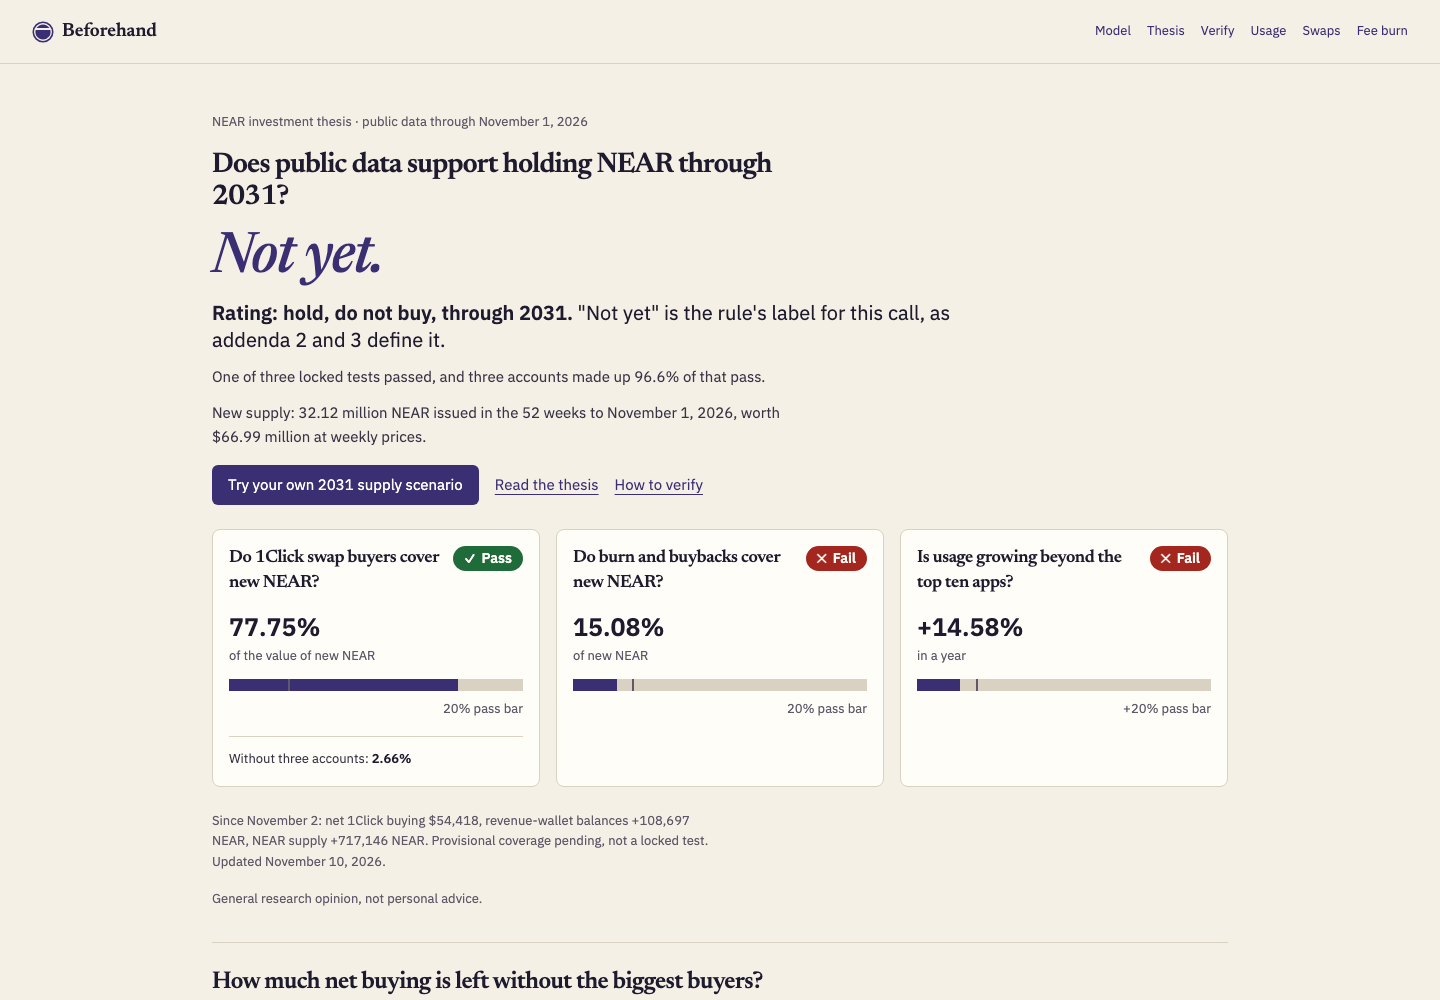
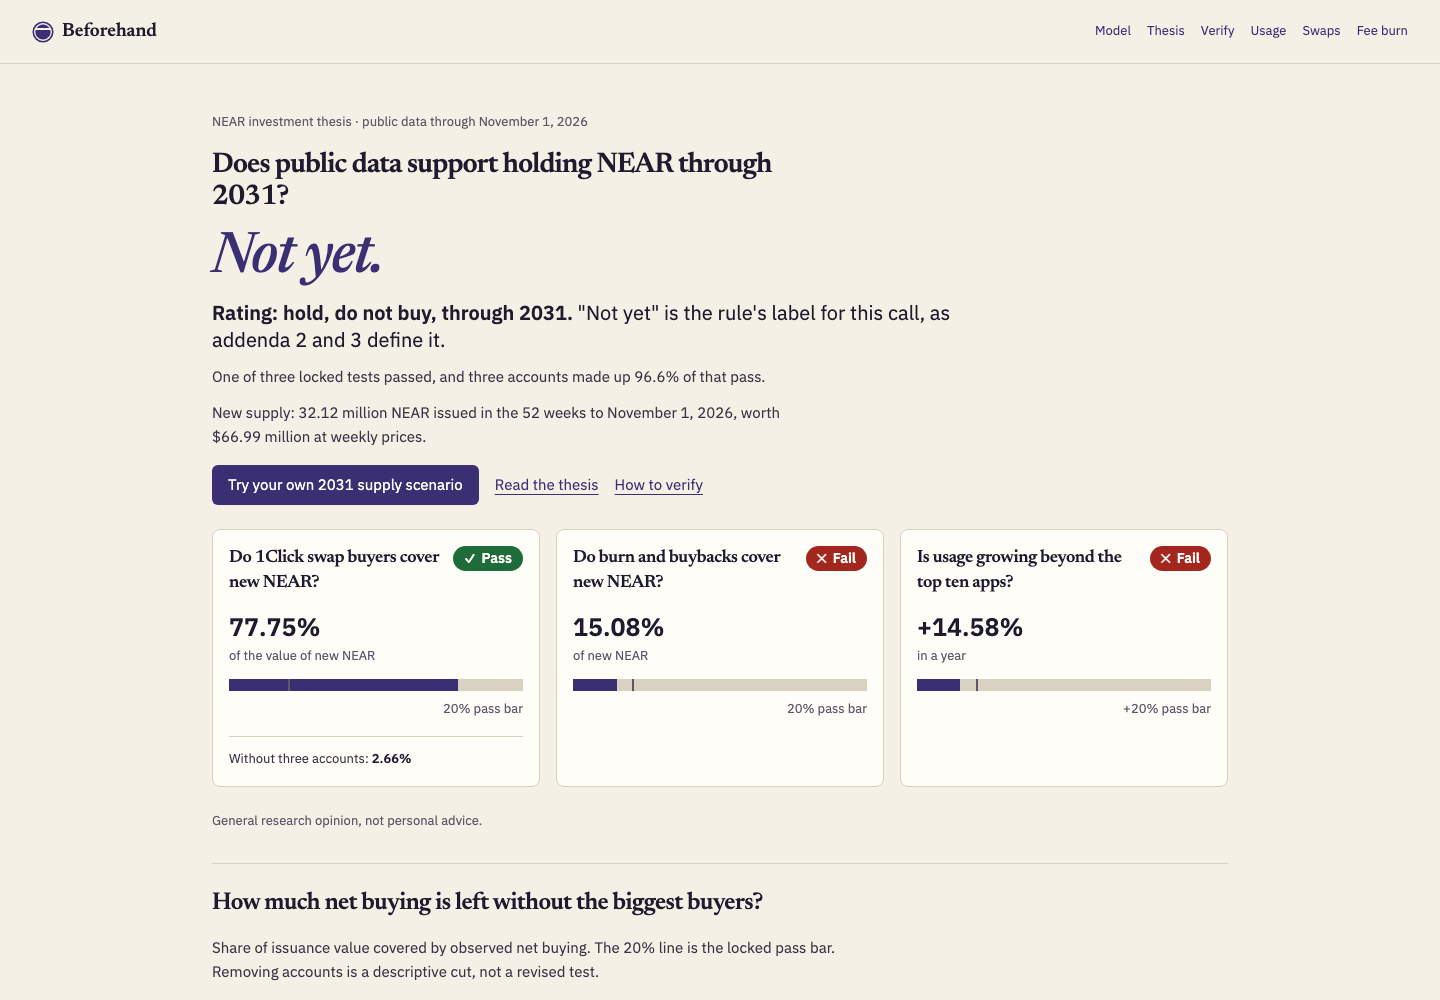
Keep result-table words whole and name Claude Code in the AI disclosure
IBM Plex Sans is wider than the old font, so "neither" broke across two
lines in the T2 sensitivity table. The README now names both agents
that wrote commits.

Changed region(s): [[0.125, 0.806, 0.5938, 1.0]]

diff --git a/dashboard/style.css b/dashboard/style.css
@@ -100,6 +100,7 @@ caption { text-align: left; color: var(--secondary); font-size: 13px; padding-bo
 th { font-size: 13px; font-weight: 600; color: var(--secondary); }
 td, th { padding: 12px 16px 12px 0; border-bottom: 1px solid var(--border); vertical-align: top; }
 td { overflow-wrap: anywhere; }
+.hypotheses td:last-child { overflow-wrap: normal; }
 .chart-section td:last-child, .chart-section th:last-child { text-align: right; }
 dt { margin-top: 16px; }
 dd { margin: 8px 0 24px; max-width: 65ch; }

diff --git a/web/style.css b/web/style.css
@@ -100,6 +100,7 @@ caption { text-align: left; color: var(--secondary); font-size: 13px; padding-bo
 th { font-size: 13px; font-weight: 600; color: var(--secondary); }
 td, th { padding: 12px 16px 12px 0; border-bottom: 1px solid var(--border); vertical-align: top; }
 td { overflow-wrap: anywhere; }
+.hypotheses td:last-child { overflow-wrap: normal; }
 .chart-section td:last-child, .chart-section th:last-child { text-align: right; }
 dt { margin-top: 16px; }
 dd { margin: 8px 0 24px; max-width: 65ch; }

diff --git a/README.md b/README.md
@@ -24,7 +24,7 @@ Open [`dashboard/model.html`](dashboard/model.html) from a local HTTP server; fo
 - Runtime, build and tests use only the Node.js 22 standard library. `package.json` declares no dependencies, and `package-lock.json` lists no packages beyond this project.
 - The dashboard ships two open-licensed fonts in `web/fonts/`, Newsreader and IBM Plex Sans, under the SIL Open Font License; the license texts sit beside them. The Beforehand name, mark and colors were made for this project; see `brand/BRAND.md`.
 - Timestamp proofs use the OpenTimestamps client, run on demand with `uvx --from opentimestamps-client`. It is a verification tool, not part of the build or tests.
-- Code, tests and text in this repository were written with AI coding agents (Factory Droid) under the owner's direction and review. Every commit records the agent as co-author.
+- Code, tests and text in this repository were written with AI coding agents (Factory Droid and Claude Code) under the owner's direction and review. Every commit records the agent as co-author.
 
 ## Verify evidence and rule chronology
 
